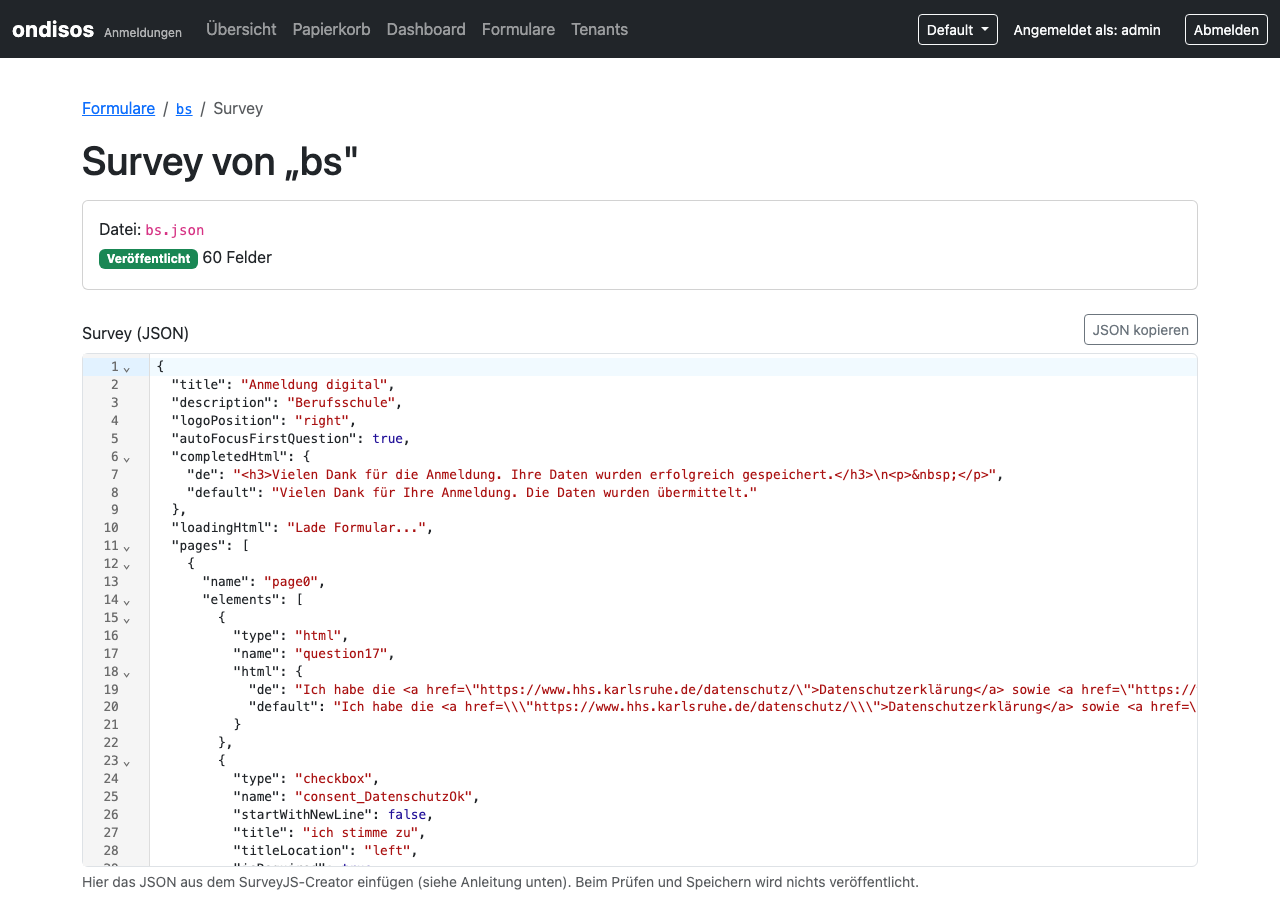
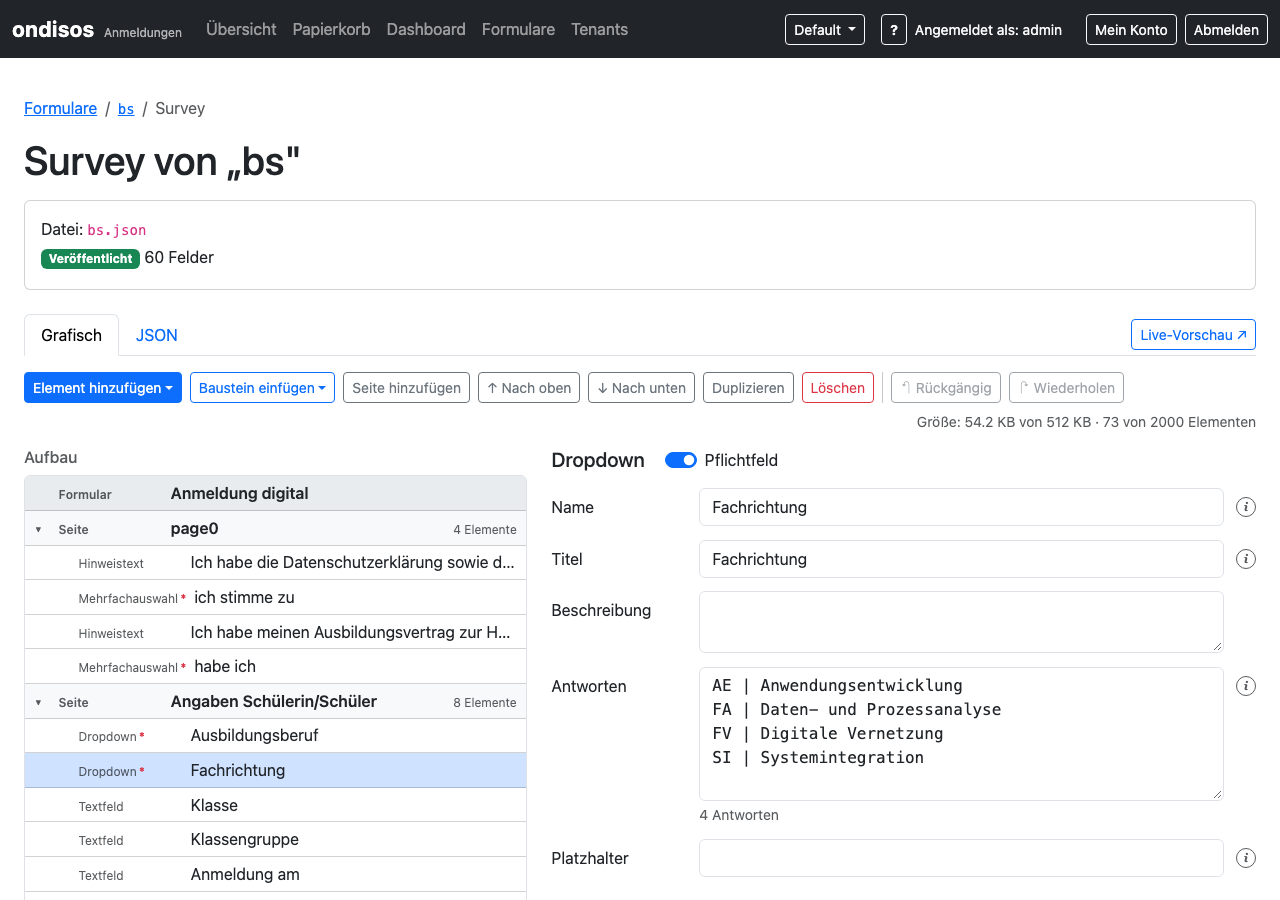
docs(redaktion): Workflow als SVG, Screenshot des grafischen Survey-Editors
- SURVEYJS.md „Workflow im Backend“: ablauf-formular-backend.svg statt
  ASCII-Grafik (Einstiege, Editor Grafisch ⇄ JSON, Live-Vorschau,
  Prüfen → Entwurf → Vorschau → Veröffentlichen, Verlauf)
- backend-survey-editor.png neu: Reiter „Grafisch“ mit gewähltem Feld;
  Bildtexte in SURVEYJS.md und README angepasst
- shots.mjs: Zwei-Faktor-Code (USER_2FA) und Tenant-Wahl (TENANT_ID);
  shots.json wählt im Survey-Editor ein Feld aus

diff --git a/docs/redaktion/SURVEYJS.md b/docs/redaktion/SURVEYJS.md
@@ -52,18 +52,7 @@ Eine Änderung im einen Reiter steht sofort im anderen. Gespeichert und veröffe
 
 ## Workflow im Backend
 
-```
-Formulare → Neues Formular anlegen        Formulare → Survey bearbeiten
-        │  Vorlage wählen                          │
-        ▼                                          ▼
-Survey-Editor: Grafisch ⇄ JSON  ──  Live-Vorschau (ohne Speichern)
-        │
-        ▼
-Prüfen → Entwurf speichern → Vorschau → Veröffentlichen
-        │
-        ▼
-Frontend / WordPress zeigt die veröffentlichte Fassung
-```
+![Ablauf: neues Formular mit Vorlage oder bestehendes Formular öffnen, im Survey-Editor grafisch oder als JSON bearbeiten (Live-Vorschau ohne Speichern), dann Prüfen, Entwurf speichern, Vorschau, Veröffentlichen; Frontend und WordPress zeigen die veröffentlichte Fassung](../img/ablauf-formular-backend.svg)
 
 ### Neues Formular erstellen
 
@@ -105,7 +94,7 @@ Empfänger-Adressen und Logo werden dabei nie kopiert.
    **Neue Formular-Version** (optional; leer lassen = unverändert) und eine **Anmerkung für den Verlauf** (optional) eintragen. Die Formular-Version wird mit jeder Anmeldung gespeichert,
    so lässt sich später nachvollziehen, nach welchem Stand ausgefüllt wurde.
 
-![Survey-Editor mit JSON, Prüfen, Entwurf und Veröffentlichen](../img/backend-survey-editor.png)
+![Survey-Editor im Reiter „Grafisch“: links der Aufbau mit Seiten und Feldern, rechts die Eigenschaften des gewählten Feldes](../img/backend-survey-editor.png)
 
 Wurde die Survey zwischenzeitlich von jemand anderem veröffentlicht, bleibt Ihr Entwurf gespeichert, wird aber nicht veröffentlicht. Der Editor weist darauf hin und zeigt den Unterschied; nach der Prüfung lässt sich erneut veröffentlichen.
 

diff --git a/README.md b/README.md
@@ -37,7 +37,7 @@ im geschützten Backend, druckt sie aus oder lädt sie als Excel-Datei herunter 
 <table>
   <tr>
     <td width="50%"><img src="docs/img/backend-uebersicht.png" alt="Übersicht der Anmeldungen"><br><sub>Anmeldungen im Backend: filtern, Status setzen, exportieren</sub></td>
-    <td width="50%"><img src="docs/img/backend-survey-editor.png" alt="Survey-Editor"><br><sub>Formular-Editor: einfügen, prüfen, Vorschau, veröffentlichen</sub></td>
+    <td width="50%"><img src="docs/img/backend-survey-editor.png" alt="Survey-Editor"><br><sub>Survey-Editor: grafisch oder als JSON bearbeiten, prüfen, veröffentlichen</sub></td>
   </tr>
   <tr>
     <td><img src="docs/img/pdf-bestaetigung.png" alt="PDF-Bestätigung"><br><sub>PDF-Bestätigung mit Schul-Logo</sub></td>
